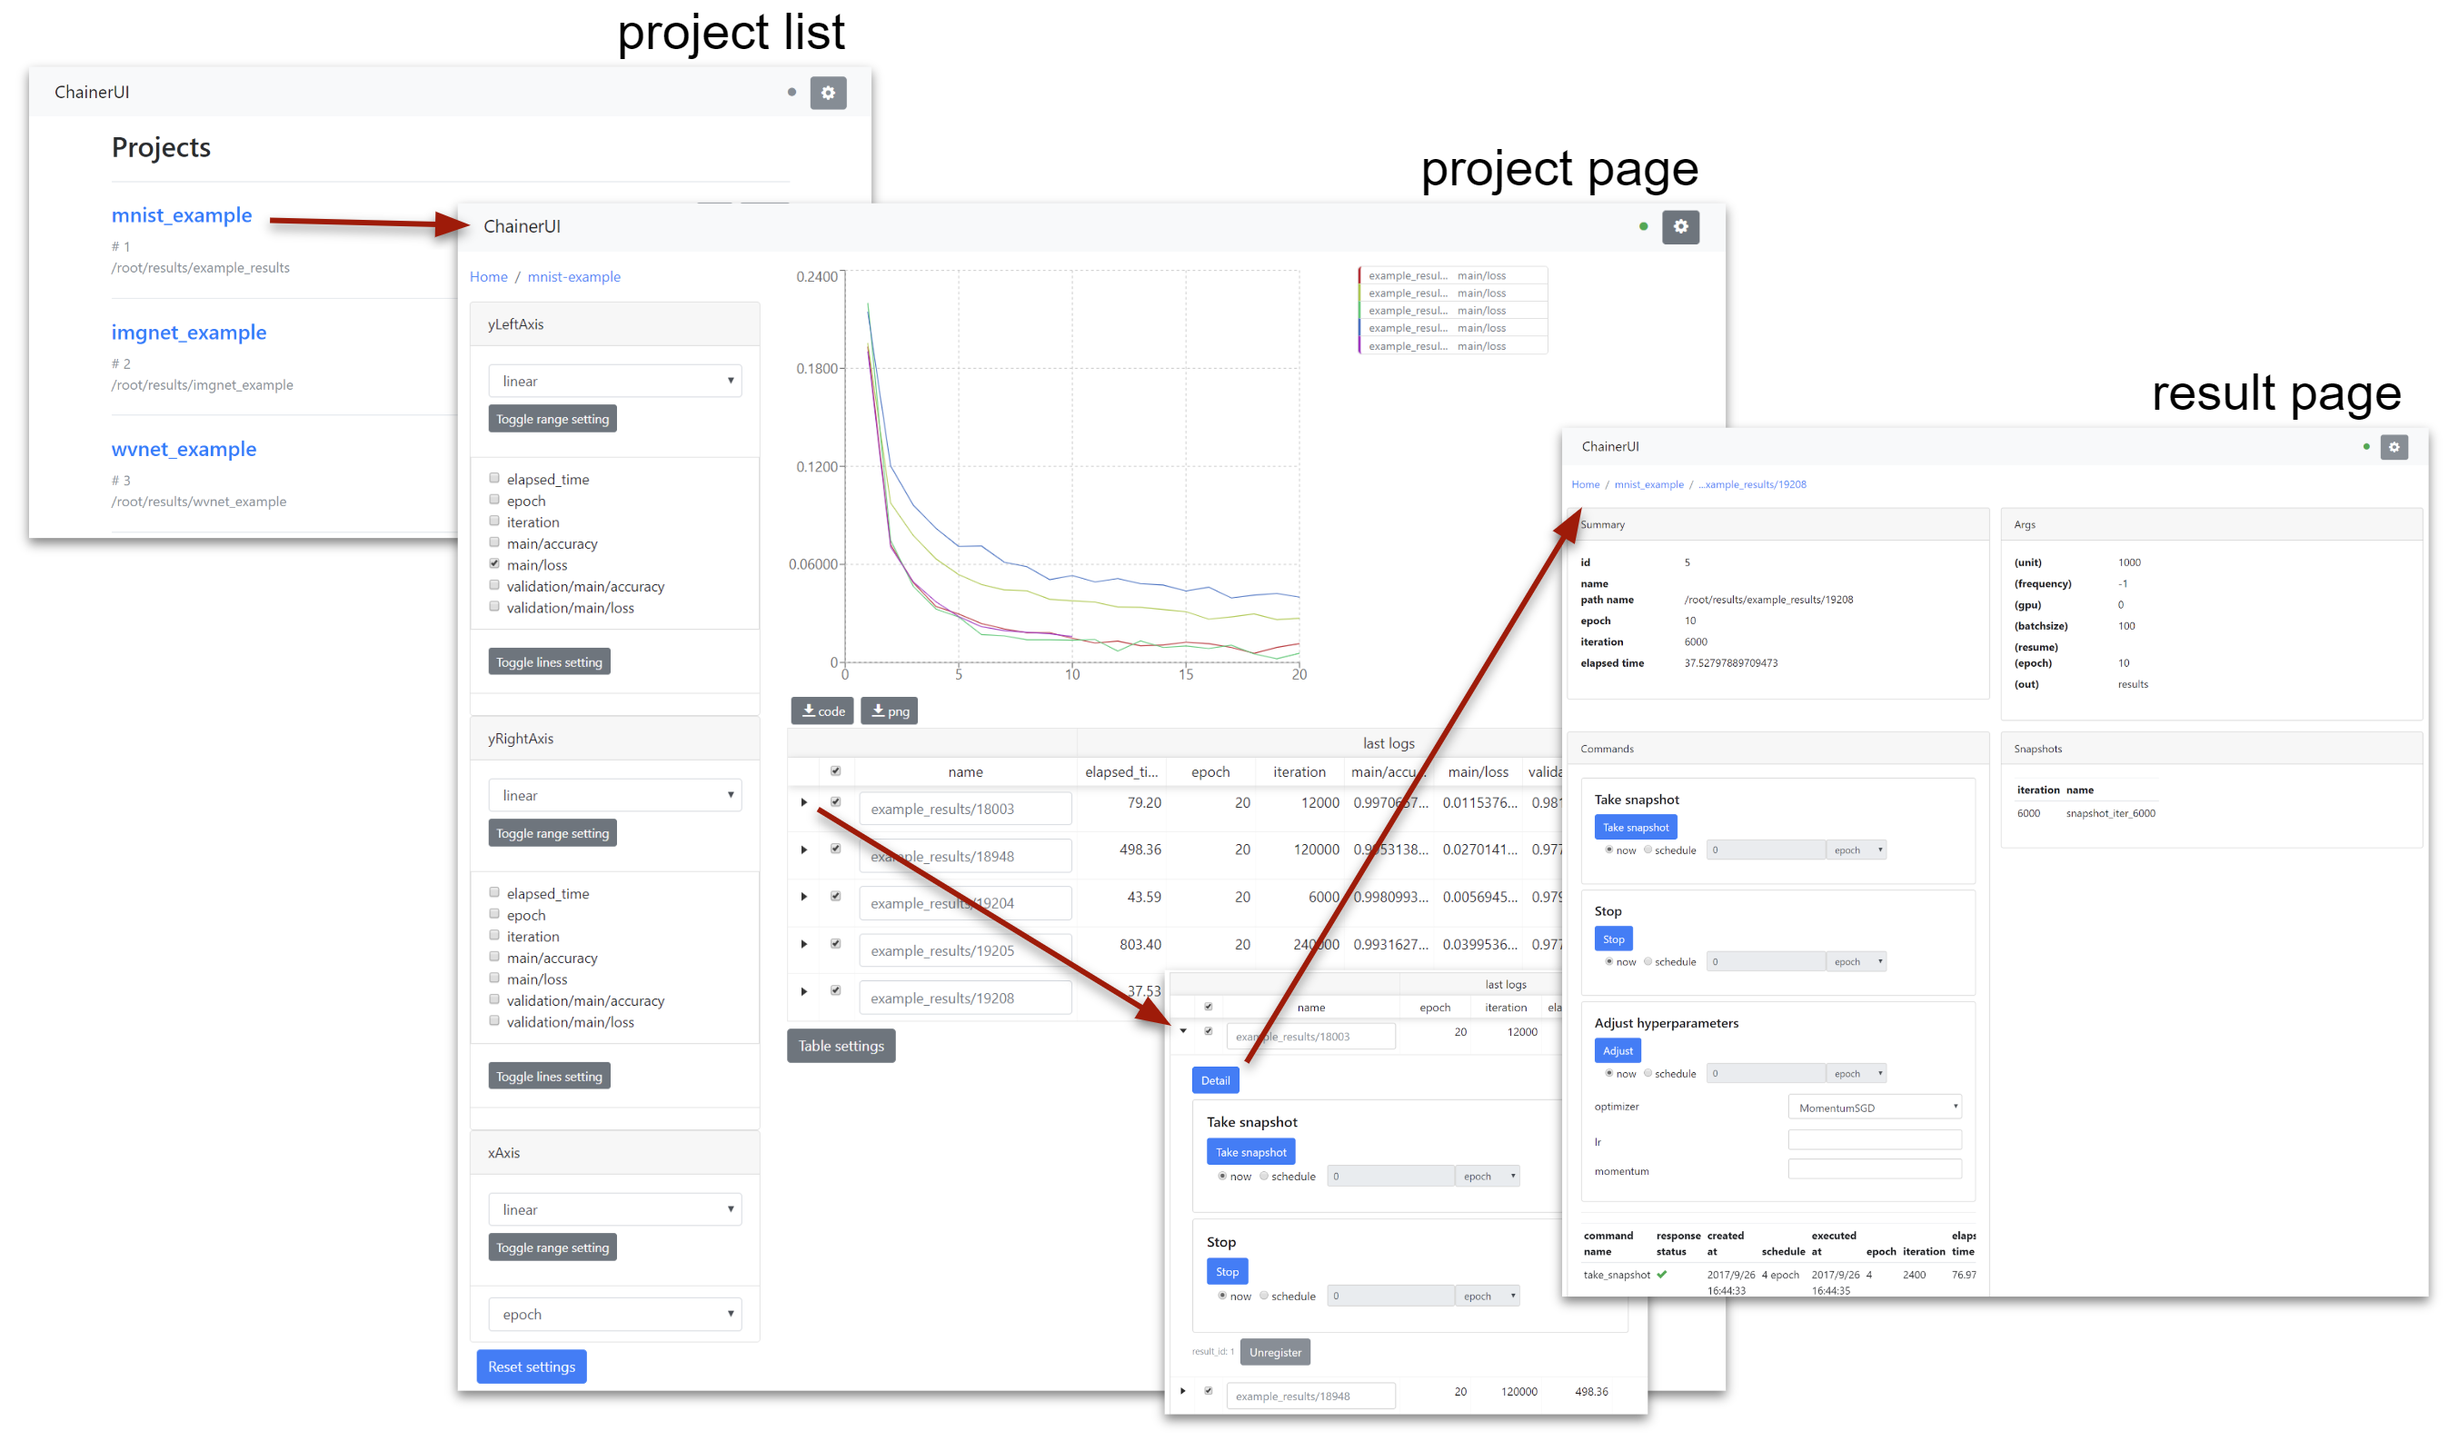
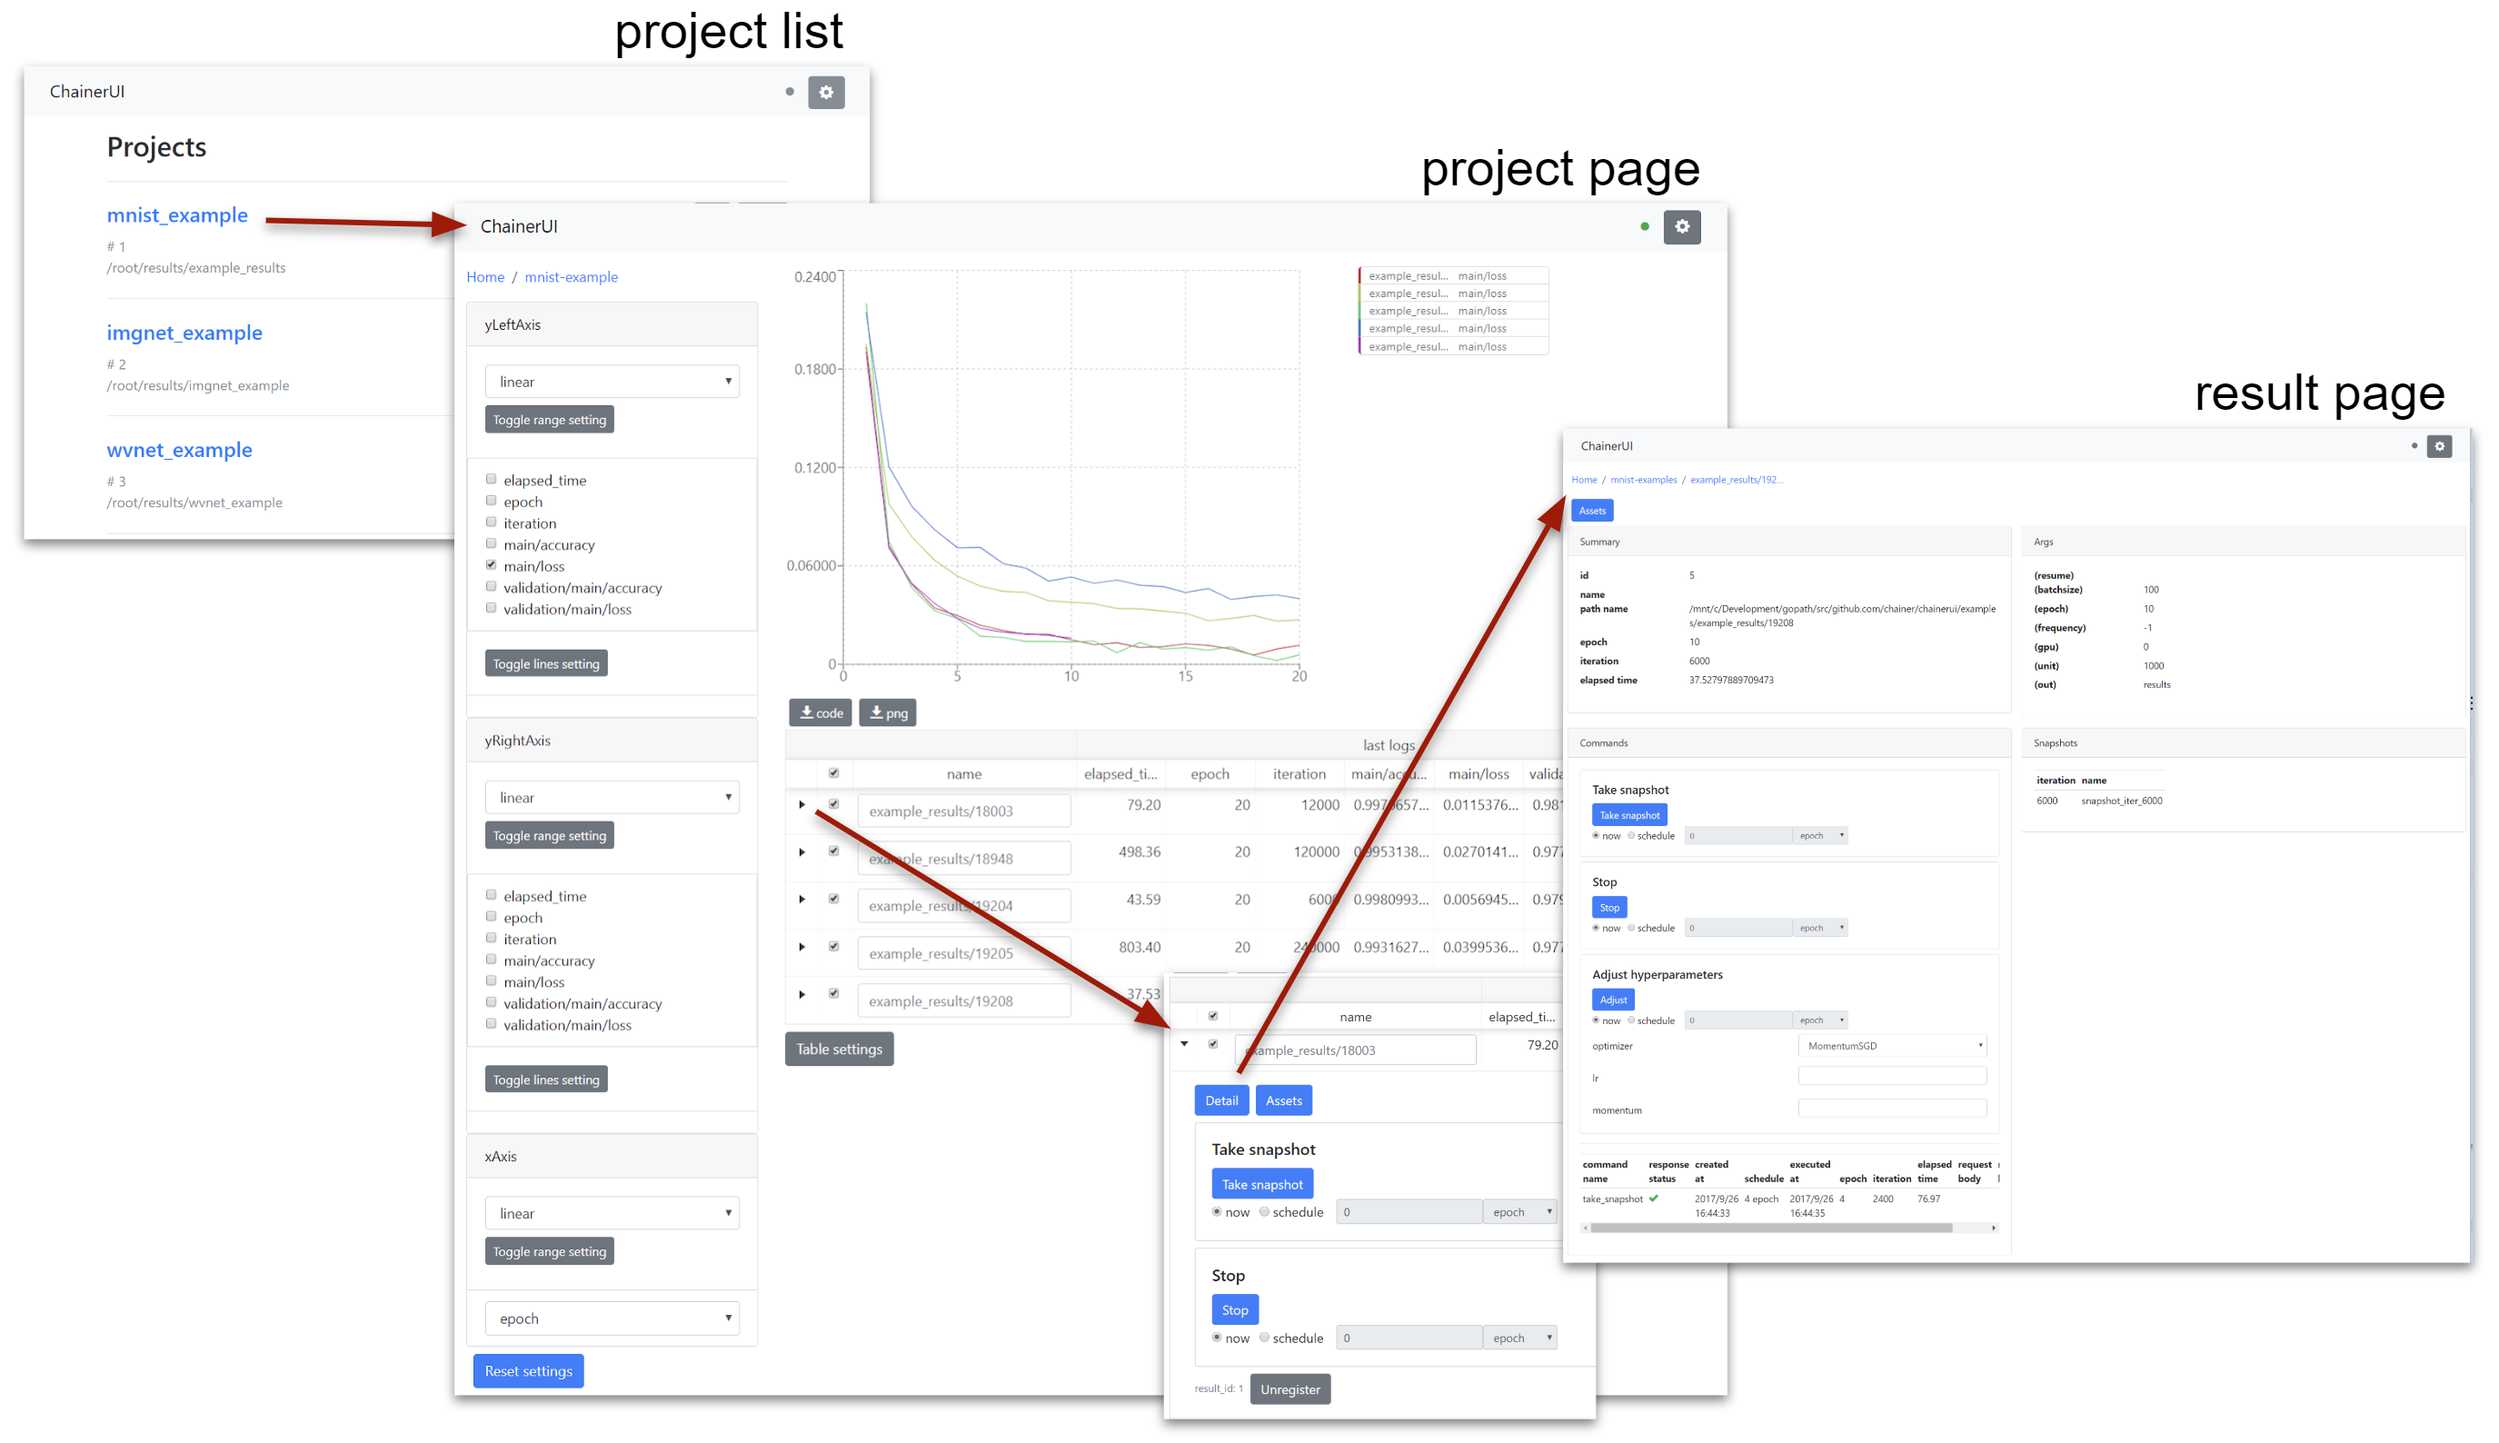
follow v0.8 UI

diff --git a/docs/source/getstart.rst b/docs/source/getstart.rst
@@ -158,7 +158,7 @@ A example without ``Trainer`` code, from a short extract of the `MNIST custom lo
 Experimental conditions
 ~~~~~~~~~~~~~~~~~~~~~~~
 
-.. image:: ../images/result_table_condition_sample.png
+.. image:: ../images/result_table.png
 
 ChainerUI shows the training job with experimental conditions read from the ``args`` file. ``args`` file is a JSON file, which includes key-value pairs. See :ref:`save_args <module_save_args>`, util function to dump command line arguments or dictionaries to ``args`` file.
 
@@ -201,10 +201,9 @@ ChainerUI supports operating a training loop with :ref:`CommandsExtension <modul
 * Adjusting the hyperparameters of an optimizer
 * Stopping the training loop
 
-Operation buttons are in result table row, click ``▼`` button, or in :ref:`result page <ui_result_page>`, click ``Detail`` button in expanded row.
+Operation buttons are in result table row, click ``▼`` button to expand, or in :ref:`result page <ui_result_page>`, click ``Detail`` button.
 
-.. figure:: ../images/result_table_collapsable_row.gif
-   :scale: 30%
+.. figure:: ../images/result_table_expand_row_operation_block.png
 
    expand table row to show sub components.
 

diff --git a/docs/source/reference/ui.rst b/docs/source/reference/ui.rst
@@ -124,17 +124,21 @@ Show detail information about the line, and enable to change the line color. To 
 Training job table
 ~~~~~~~~~~~~~~~~~~
 
-.. image:: ../../images/result_table_condition_sample.png
+.. image:: ../../images/result_table.png
 
 .. figure:: ../../images/result_table_expand_row.png
 
-   expanded the first row to show sub components.
+   expanded the second row to show sub components.
 
 The training job table shows brief log information and experimental conditions. Job names are set to the directory name by default. The name can be edit directly on the table. To unregister a result, click ``Unregister`` button in the expanded row. Expanded row has some operation buttons. These buttons operate similarly to buttons in :ref:`Commands pane <ui_result_page_commands>`.
 
 .. note::
 
    [Known problem] Once a result is unregistered, a result with the same name cannot be restored on the result table. This will be fixed in future.
+
+* ``Table Settings``: Customize visibility of table columns
+
+.. image:: ../../images/result_table_setting.png
 
 
 .. _ui_result_page:

diff --git a/docs/source/assets.rst b/docs/source/assets.rst
@@ -5,7 +5,7 @@ Visualize assets
 
 ChainerUI provides ``/assets`` endpoint from v0.8.0 to visualize media assets such image or audio. Basically by using :ref:`module_summary` module, functions convert ``ndarray`` to the specified media type, and show them on a web browser. Assets page can be seen from ``assets`` button on :ref:`result table <ui_training_job_table>` or :ref:`result detail <ui_result_page>`.
 
-TODO: flow page, result row to assets page
+.. image:: ../images/assets/asset_page_flow.png
 
 .. note::
 
